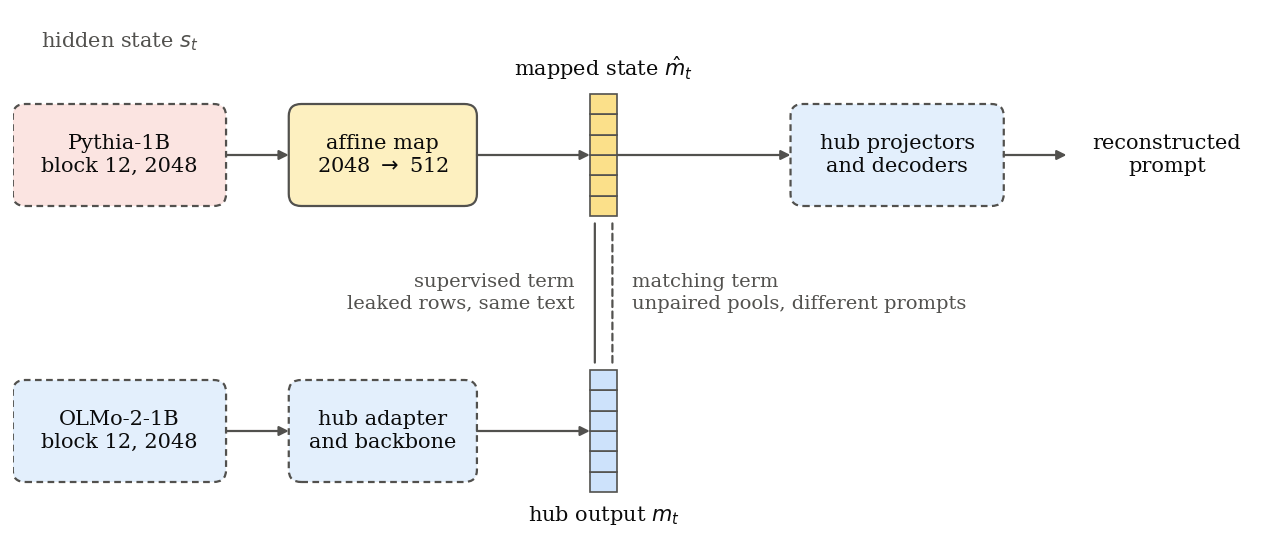
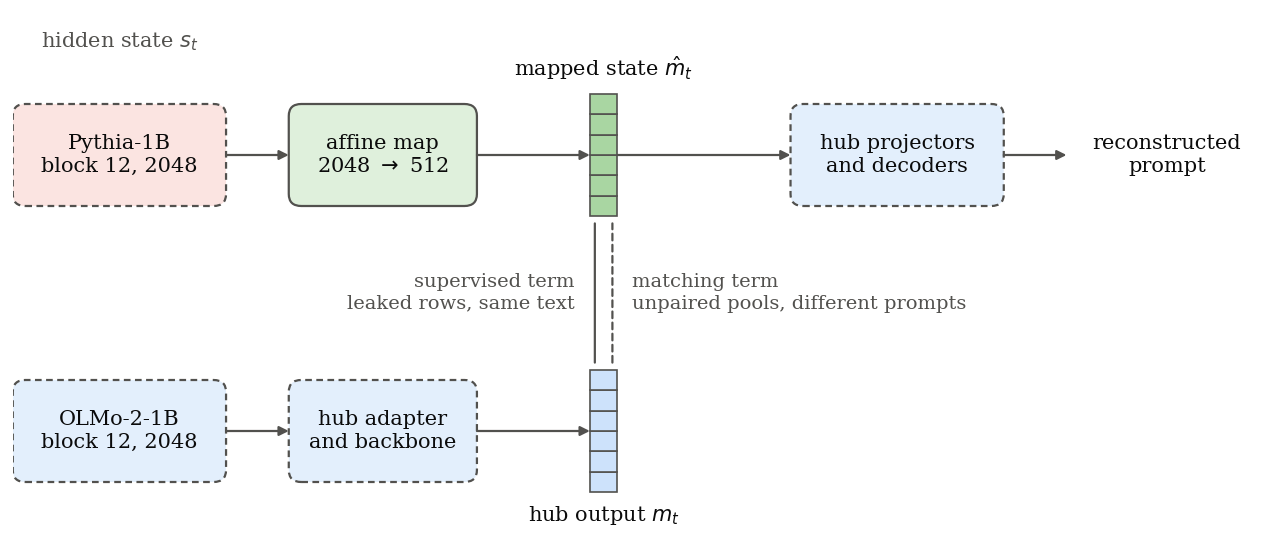
figures 1.1, 3.1, 4.1: trained modules green

Changed region(s): [[0.2188, 0.1855, 0.375, 0.3709], [0.4375, 0.1545, 0.5, 0.4018]]

diff --git a/figures/scripts/make_figures.py b/figures/scripts/make_figures.py
@@ -67,7 +67,7 @@ def attack_map():
     ax.set_ylim(0, 44)
     ax.axis("off")
     top, bottom, h = 32, 9, 8.5
-    red_box, blue_box, yellow_box, red, blue, yellow = "#fbe4e1", "#e3effc", "#fdf0c0", "#f6c9c4", "#cde2fb", "#fbe08a"
+    red_box, blue_box, green_box, red, blue, green = "#fbe4e1", "#e3effc", "#dff0dc", "#f6c9c4", "#cde2fb", "#a9d6a2"
 
     def box(x, y, w, text, fill, dashed=False):
         ax.add_patch(FancyBboxPatch((x, y - h / 2), w, h, boxstyle="round,pad=0,rounding_size=1",
@@ -86,10 +86,10 @@ def attack_map():
 
     # Top lane: the target model, the one trained module, and the frozen read-out of the hub.
     box(0, top, 17, "Pythia-1B\nblock 12, 2048", red_box, dashed=True)
-    box(22, top, 15, "affine map\n2048 $\\to$ 512", yellow_box)
+    box(22, top, 15, "affine map\n2048 $\\to$ 512", green_box)
     arrow(17, top, 22, top)
     vx = 46
-    lo_t, hi_t = vector(vx, top, yellow)
+    lo_t, hi_t = vector(vx, top, green)
     arrow(37, top, vx, top)
     ax.text(vx + 1.1, hi_t + 1.0, "mapped state $\\hat{m}_t$", ha="center", va="bottom", fontsize=7.5, color=INK)
     box(62, top, 17, "hub projectors\nand decoders", blue_box, dashed=True)
@@ -125,8 +125,8 @@ def overview():
     ax.axis("off")
     fig.subplots_adjust(0.01, 0.01, 0.99, 0.99)
     h = 8.5
-    red, blue, yellow = "#f6c9c4", "#cde2fb", "#fbe08a"  # unknown to the adversary; pretrained hub; fitted to match the two
-    red_box, blue_box, yellow_box = "#fbe4e1", "#e3effc", "#fdf0c0"
+    red, blue, green = "#f6c9c4", "#cde2fb", "#a9d6a2"  # unknown to the adversary; pretrained hub; fitted to match the two
+    red_box, blue_box, green_box = "#fbe4e1", "#e3effc", "#dff0dc"
 
     def box(x, y, w, text, fill, dashed=False):
         ax.add_patch(FancyBboxPatch((x, y - h / 2), w, h, boxstyle="round,pad=0,rounding_size=1",
@@ -148,7 +148,7 @@ def overview():
     ax.text(61, 66, "server, the adversary", ha="center", va="center", fontsize=7.5, color=INK2, style="italic")
     vs, vx = 27, 52
     ax.text(3.2, top, "public\nprompt", ha="center", va="center", fontsize=7.5, color=INK, linespacing=1.25)
-    box(35, top, 11, "hub\n(step 1)", yellow_box)
+    box(35, top, 11, "hub\n(step 1)", green_box)
     arrow(6.6, top, 35, top)
     lo_t, hi_t = vector(vx, top, blue)
     arrow(46, top, vx, top)
@@ -165,9 +165,9 @@ def overview():
     lo_s, hi_s = vector(vs, bottom, red)
     arrow(20, bottom, vs, bottom)
     ax.text(vs + 1.1, lo_s - 1.0, "hidden states", ha="center", va="top", fontsize=7.5, color=INK)
-    box(35, bottom, 11, "map\n(step 2)", yellow_box)
+    box(35, bottom, 11, "map\n(step 2)", green_box)
     arrow(vs + 2.2, bottom, 35, bottom)
-    lo_b, hi_b = vector(vx, bottom, yellow)
+    lo_b, hi_b = vector(vx, bottom, green)
     arrow(46, bottom, vx, bottom)
     ax.text(vx + 1.1, lo_b - 1.0, "mapped states", ha="center", va="top", fontsize=7.5, color=INK)
     box(63, bottom, 14, "frozen models\n(decoders)", blue_box, dashed=True)

diff --git a/chapters/ch1_introduction/ch1.tex b/chapters/ch1_introduction/ch1.tex
@@ -48,7 +48,7 @@ Figure~\ref{fig:intro:approach} shows both steps.
 \centering
 \includegraphics[width=\textwidth]{ch1/approach_overview}
 \caption{A map trained on a small leak and on distribution matching sends the hidden states that the server receives into a pretrained translation hub, whose decoders reconstruct the private prompt.
-Red marks the target model and its hidden states, blue marks the public side, that is, the hub outputs for public prompts and the frozen models that decode them, and yellow marks what is trained: the hub in step 1 and the map in step 2, with the mapped states that the map produces.
+Red marks the target model and its hidden states, blue marks the public side, that is, the hub outputs for public prompts and the frozen models that decode them, and green marks what is trained: the hub in step 1 and the map in step 2, with the mapped states that the map produces.
 Solid boxes are trained and dashed boxes are frozen.
 The two vertical lines are the comparisons that train the map: on a small leak, where the pairing is known, and by distribution matching, where it is not.}
 \label{fig:intro:approach}

diff --git a/chapters/ch4_weak_supervised_attack/s2_method.tex b/chapters/ch4_weak_supervised_attack/s2_method.tex
@@ -16,7 +16,7 @@ Like the hub, the map acts on one hidden state at a time (Section~\ref{sec:hub:d
 \caption{The attack trains one affine map between the target model and the frozen hub.
 The map sends each hidden state of the target model to a mapped state in the hub, and the frozen projectors and decoders of the hub reconstruct the prompt from the mapped states.
 The supervised term compares a mapped state with the hub output of the same leaked row; the matching term aligns mapped states with hub outputs of different prompts, drawn from the two unpaired pools.
-The yellow solid box is the only trained module; dashed boxes are frozen, red for the target model and blue for the public model and the hub.}
+The green solid box is the only trained module; dashed boxes are frozen, red for the target model and blue for the public model and the hub.}
 \label{fig:attack:map}
 \end{figure}
 

diff --git a/chapters/ch3_translation_hub/s1_design.tex b/chapters/ch3_translation_hub/s1_design.tex
@@ -7,7 +7,7 @@ The hub connects $k$ models through one shared space, with one source adapter an
 \includegraphics[width=\textwidth]{ch3/hub_architecture}
 \caption{The translation hub maps each model's hidden states into one shared space, and every frozen model decodes from it.
 Model-specific adapters and a shared backbone produce the hub output; model-specific projectors map it into the input space of each frozen decoder.
-Yellow solid boxes are trained modules, blue dashed boxes are frozen public models, and the column of cells is the hub output, a vector with no parameters of its own.}
+Green solid boxes are trained modules, blue dashed boxes are frozen public models, and the column of cells is the hub output, a vector with no parameters of its own.}
 \label{fig:hub:arch}
 \end{figure}
 

diff --git a/figures/scripts/make_hub_figures.py b/figures/scripts/make_hub_figures.py
@@ -90,7 +90,7 @@ def architecture():
     sources = [("Qwen3.5-0.8B\nblock 18, 1024", "$\\to$ 1024"), ("OLMo-2-1B\nblock 12, 2048", "$\\to$ 2048"),
                ("SmolLM2-1.7B\nblock 18, 2048", "$\\to$ 2048")]
     decoders = ["Qwen\ndecoder", "OLMo\ndecoder", "SmolLM\ndecoder"]
-    light, dark, public = "#fdf0c0", "#fae29a", "#e3effc"  # trained modules yellow, frozen public models blue
+    light, dark, public = "#dff0dc", "#bfe0ba", "#e3effc"  # trained modules green, frozen public models blue
     for y, (src, _) in zip(rows, sources):
         box(0, y, 17, src, public, dashed=True)
         box(21, y, 13, "adapter\n$\\to$ 1024", light)
